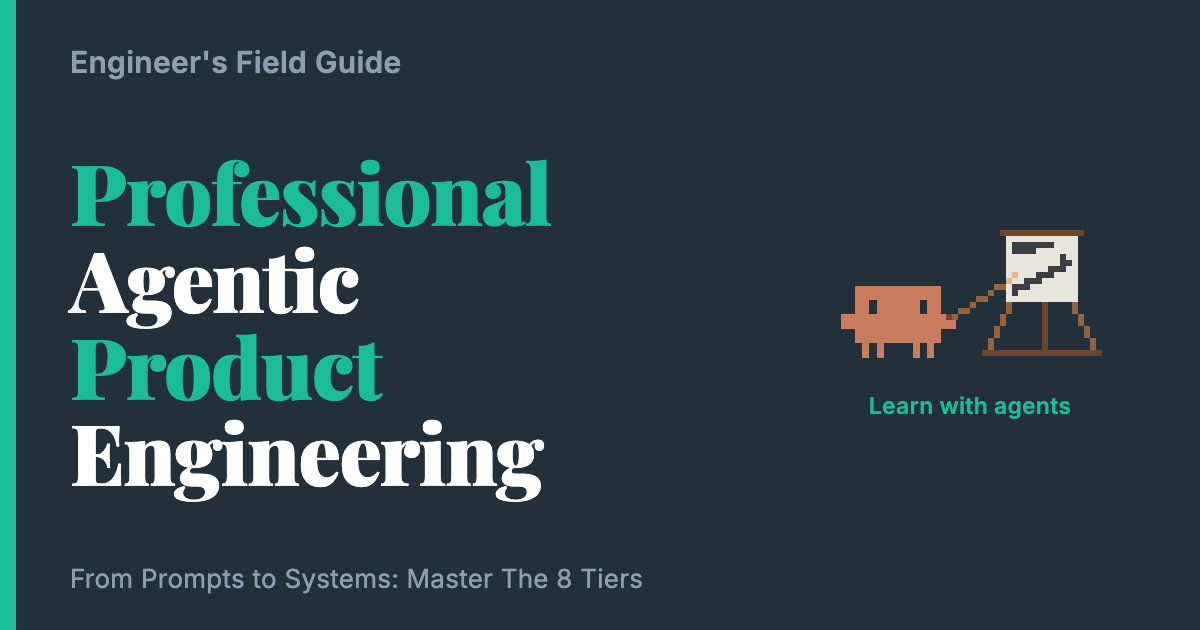
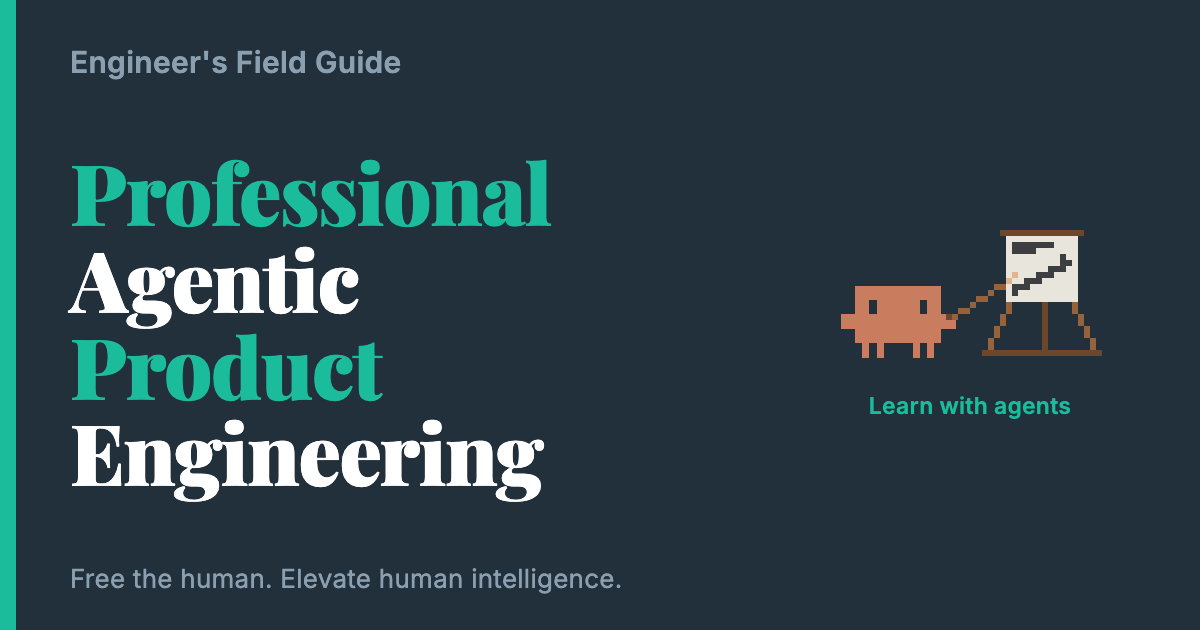
web: the six tiers on the first screen; menu follows the new guide order
Alexey: "maybe the tiers shall be presented on the first website page? now it
takes many scrolls." The home page is now the opener, the deep-dive line,
the headline and subline, then the six tiers as cards grouped by stage
(Direct · Trust · Scale, each card with You stop / You do instead, linking to
its tier page), then one row: Start at T1 · How it works · Audit your
harness · All tips. Everything is read from guide.md — the front matter and
"The six tiers at a glance" — and the build fails if that shape breaks. The
hero banner image is gone from the page; it stays the share image.

- NAV: The six tiers · How it works · Tier by tier · More, matching the
  guide's four parts. llms.txt now groups by the same menu.
- Card styles reuse the existing tier-card look; subgrid lines the cards up
  across stage columns, and on phones each stage becomes a two-card row.
- Page descriptions skip tables and rules, so table-led pages get a sentence.
- vercel.json: 301s for tier-7 -> tier-5, tier-8 -> tier-6 and the two
  renamed eight-tier pages (with and without .html).
- OG image: brand line is now the headline. Favicon untouched.

Claude-Session: https://claude.ai/code/session_01RCwp6gorp9YUts5LPX2H3o

Changed region(s): [[0.0925, 0.9048, 0.555, 0.9349]]

diff --git a/web/src/styles.css b/web/src/styles.css
@@ -250,6 +250,58 @@ a:hover { text-decoration: underline; }
 [data-theme="dark"] .tier-card-n { background: var(--teal-d); }
 .tier-card-name { font-family: var(--font-head); font-size: 1.12rem; font-weight: 700; }
 .tier-card-blurb { font-size: 13.5px; color: var(--text-soft); line-height: 1.5; }
+/* inside .content the cards are links: keep the card border, not the link underline */
+.content .tier-card { border: 1px solid var(--border); font-weight: 400; }
+.content .tier-card:hover { border-color: var(--teal); }
+.tier-card-head { display: flex; align-items: center; gap: 10px; }
+.tier-card-head .tier-card-n { align-self: center; }
+.tier-card-row { font-size: 13.5px; line-height: 1.45; color: var(--text-soft); }
+.tier-card-k {
+  display: block; font-size: 10.5px; font-weight: 700; letter-spacing: .07em;
+  text-transform: uppercase; color: var(--muted);
+}
+
+/* ------------------------------------------------------------------- home */
+/* opener → headline → the six tiers by stage → where to go next, on one screen */
+.home-hero { margin: 0 0 26px; }
+.content .home-opener p {
+  margin: 0; font-family: var(--font-head); font-style: italic;
+  font-size: 1.1rem; line-height: 1.55; color: var(--text-soft);
+}
+.home-shift { margin: 14px 0 0; font-size: 15.5px; line-height: 1.5; }
+.content .home-headline {
+  margin: 22px 0 4px; font-family: var(--font-head); font-weight: 800;
+  font-size: 2.15rem; line-height: 1.12; letter-spacing: -.01em; color: var(--text);
+}
+.content .home-subline { margin: 0; font-size: 1.08rem; font-weight: 600; color: var(--accent); }
+/* three stage columns; subgrid lines the cards up across columns */
+.stage-grid {
+  display: grid; grid-template-columns: repeat(3, 1fr); grid-template-rows: repeat(3, auto);
+  gap: 12px 14px; margin: 0 0 20px;
+}
+.stage { display: grid; grid-row: span 3; grid-template-rows: subgrid; gap: 12px; }
+@supports not (grid-template-rows: subgrid) {
+  .stage { display: flex; flex-direction: column; }
+}
+.content .stage-name { margin: 0 0 -2px; font-size: 12.5px; line-height: 1.35; color: var(--muted); }
+.content .stage-name strong {
+  display: block; font-size: 12px; letter-spacing: .08em; text-transform: uppercase; color: var(--accent);
+}
+.stage .tier-card { padding: 14px 16px; gap: 7px; }
+.home-cta { display: flex; flex-wrap: wrap; gap: 10px; margin: 0 0 34px; }
+.content .home-cta a {
+  padding: 8px 16px; border: 1px solid var(--border); border-radius: 999px;
+  background: var(--surface); color: var(--text); font-size: 14.5px; font-weight: 600;
+}
+.content .home-cta a:hover { border-color: var(--teal); }
+.content .home-cta .home-cta-main { background: var(--teal-d); border-color: var(--teal-d); color: #fff; }
+@media (max-width: 760px) {
+  .stage-grid { grid-template-columns: 1fr; grid-template-rows: none; gap: 18px; }
+  .stage { grid-row: auto; grid-template-rows: auto auto; grid-template-columns: 1fr 1fr; gap: 10px 12px; }
+  .stage-name { grid-column: 1 / -1; }
+  .content .home-opener p { font-size: 1rem; }
+  .content .home-headline { font-size: 1.8rem; }
+}
 
 /* ------------------------------------------------------------------ pager */
 .pager {
